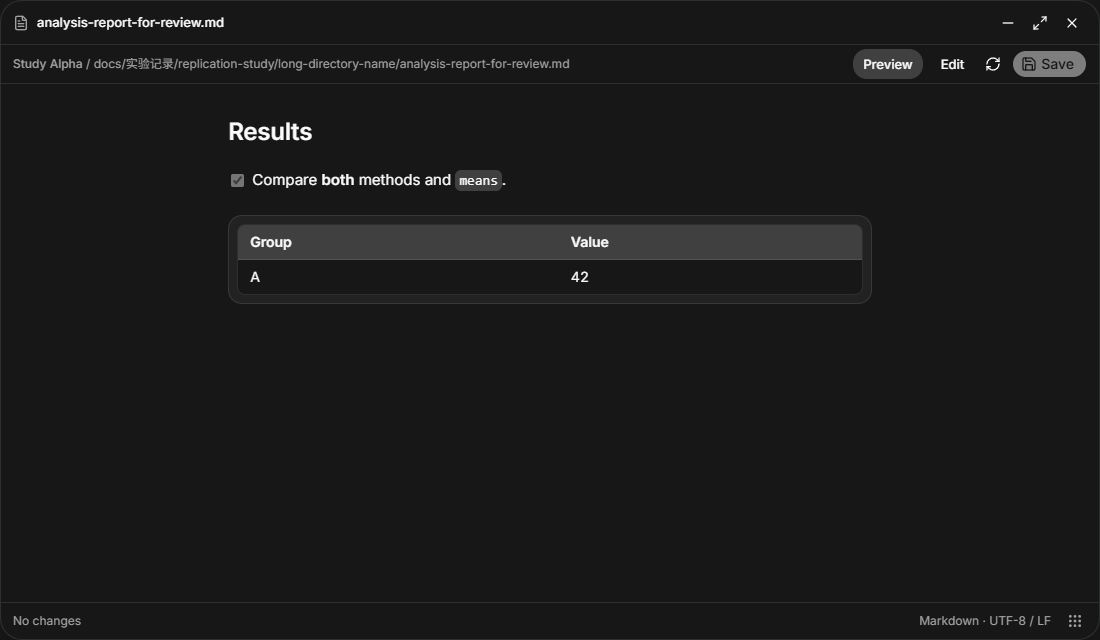
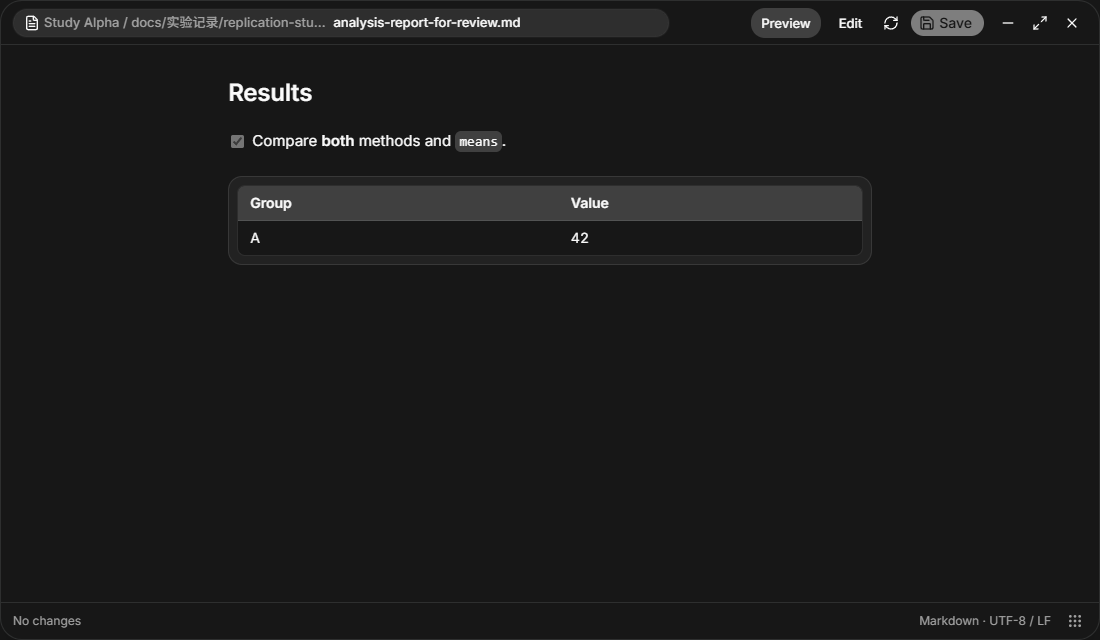
Align dashboard headers and streamline the file preview toolbar

diff --git a/components/document-window.tsx b/components/document-window.tsx
@@ -10,6 +10,8 @@ import {
 } from "react"
 import {
   FileTextIcon,
+  EyeIcon,
+  PencilIcon,
   Maximize2Icon,
   Minimize2Icon,
   MinusIcon,
@@ -32,6 +34,12 @@ import {
   AlertDialogDescription,
   AlertDialogFooter,
 } from "@/components/ui/alert-dialog"
+import {
+  Popover,
+  PopoverTrigger,
+  PopoverContent,
+  PopoverTitle,
+} from "@/components/ui/popover"
 import { Spinner } from "@/components/ui/spinner"
 import { ToggleGroup, ToggleGroupItem } from "@/components/ui/toggle-group"
 import { DocumentEditor } from "@/components/document-editor"
@@ -154,6 +162,9 @@ export function DocumentWindow({ session }: { session: DocumentSessionStore }) {
   const small = viewport.width <= 640 || viewport.height <= 400
   const bounds = maximized || small ? { x: 0, y: 0, ...viewport } : rect
   const name = doc.relativePath.split("/").at(-1)!
+  const parentPath = doc.relativePath.slice(0, -name.length)
+  const identity = `${doc.taskName} / ${doc.relativePath}`
+  const compact = bounds.width < 560
   const language = workspaceFileLanguage(doc.relativePath)
   const policy = workspaceOpenPolicy(doc.relativePath)
   // Markdown keeps a preview of its own: rendering it in place loses the
@@ -279,7 +290,10 @@ export function DocumentWindow({ session }: { session: DocumentSessionStore }) {
           aria-label="File window controls"
           tabIndex={0}
           aria-describedby="document-move-help"
-          className="flex h-11 shrink-0 touch-none items-center gap-2 border-b px-3 outline-none focus-visible:ring-2 focus-visible:ring-ring focus-visible:ring-inset"
+          className={cn(
+            "flex h-11 shrink-0 touch-none items-center border-b outline-none focus-visible:ring-2 focus-visible:ring-ring focus-visible:ring-inset",
+            compact ? "gap-1 px-1.5" : "gap-2 px-3"
+          )}
           onPointerDown={(event) => beginPointer(event, false)}
           {...pointerHandlers}
           onKeyDown={(event) => {
@@ -313,17 +327,34 @@ export function DocumentWindow({ session }: { session: DocumentSessionStore }) {
             )
           }}
         >
-          <FileTextIcon
-            className="size-4 shrink-0 text-muted-foreground"
-            aria-hidden
-          />
-          <span
-            id="document-title"
-            className="pointer-events-none flex min-w-0 flex-1 items-center gap-1 text-[13px] leading-[1.5] font-medium select-none"
-          >
-            <span className="pointer-events-auto truncate select-text" title={name}>
-              {name}
-            </span>
+          <div className="pointer-events-none flex min-w-0 flex-1 items-center gap-1">
+            <Popover>
+              <PopoverTrigger
+                render={<Button variant="ghost" size="compact" />}
+                className="pointer-events-auto max-w-full min-w-0 shrink justify-start"
+                aria-label={identity}
+                id="document-title"
+              >
+                <FileTextIcon aria-hidden />
+                {!compact && (
+                  <span className="max-w-[45%] truncate text-muted-foreground">
+                    {doc.taskName} / {parentPath}
+                  </span>
+                )}
+                <span className="min-w-0 truncate">{name}</span>
+              </PopoverTrigger>
+              <PopoverContent
+                align="start"
+                className="max-w-[calc(100vw-1rem)]"
+              >
+                <PopoverTitle className="wrap-anywhere">
+                  {doc.taskName}
+                </PopoverTitle>
+                <p className="wrap-anywhere text-muted-foreground">
+                  {doc.relativePath}
+                </p>
+              </PopoverContent>
+            </Popover>
             {dirty && (
               <span
                 className="shrink-0 text-muted-foreground"
@@ -332,44 +363,12 @@ export function DocumentWindow({ session }: { session: DocumentSessionStore }) {
                 •
               </span>
             )}
-          </span>
+          </div>
           <span id="document-move-help" className="sr-only">
             Drag the blank title bar to move. With this toolbar focused, use
             arrow keys to move or Shift and arrow keys to resize.
           </span>
-          <div className="ml-auto flex shrink-0 gap-0.5">
-            <WindowButton
-              label="Minimize file"
-              onClick={() => {
-                setMinimized(true)
-                requestAnimationFrame(() => restoreRef.current?.focus())
-              }}
-            >
-              <MinusIcon />
-            </WindowButton>
-            <WindowButton
-              label={maximized ? "Restore window size" : "Maximize file"}
-              disabled={small}
-              onClick={() => setMaximized((value) => !value)}
-            >
-              {maximized ? <Minimize2Icon /> : <Maximize2Icon />}
-            </WindowButton>
-            <WindowButton
-              label="Close file"
-              disabled={doc.saving || !!state.deletion}
-              onClick={session.requestClose}
-            >
-              <XIcon />
-            </WindowButton>
-          </div>
-        </div>
-        <div className="flex shrink-0 flex-wrap items-center gap-x-3 gap-y-1 border-b px-3 py-1">
-          <p className="max-h-12 min-w-0 flex-[1_0_min(100%,12rem)] overflow-y-auto text-xs leading-4 wrap-anywhere text-muted-foreground">
-            <span className="font-medium">{doc.taskName}</span>
-            <span aria-hidden> / </span>
-            {doc.relativePath}
-          </p>
-          <div className="ml-auto flex shrink-0 items-center gap-1">
+          <div className="flex shrink-0 items-center gap-1">
             {markdown && (
               <ToggleGroup
                 size="sm"
@@ -380,8 +379,22 @@ export function DocumentWindow({ session }: { session: DocumentSessionStore }) {
                 }}
                 aria-label="Document view"
               >
-                <ToggleGroupItem value="preview">Preview</ToggleGroupItem>
-                <ToggleGroupItem value="source">Edit</ToggleGroupItem>
+                <ToggleGroupItem
+                  value="preview"
+                  aria-label="Preview"
+                  title="Preview"
+                  className={compact ? "size-7.5 rounded-full p-0" : undefined}
+                >
+                  {compact ? <EyeIcon /> : "Preview"}
+                </ToggleGroupItem>
+                <ToggleGroupItem
+                  value="source"
+                  aria-label="Edit"
+                  title="Edit"
+                  className={compact ? "size-7.5 rounded-full p-0" : undefined}
+                >
+                  {compact ? <PencilIcon /> : "Edit"}
+                </ToggleGroupItem>
               </ToggleGroup>
             )}
             <WindowButton
@@ -392,7 +405,9 @@ export function DocumentWindow({ session }: { session: DocumentSessionStore }) {
               <RefreshCwIcon />
             </WindowButton>
             <Button
-              size="sm"
+              size={compact ? "icon-sm" : "sm"}
+              aria-label="Save"
+              title="Save"
               disabled={!canSave || locked}
               onClick={() => void session.save()}
             >
@@ -401,8 +416,34 @@ export function DocumentWindow({ session }: { session: DocumentSessionStore }) {
               ) : (
                 <SaveIcon data-icon="inline-start" />
               )}
-              Save
+              {!compact && "Save"}
             </Button>
+          </div>
+          <div className="flex shrink-0 gap-0.5">
+            <WindowButton
+              label="Minimize file"
+              onClick={() => {
+                setMinimized(true)
+                requestAnimationFrame(() => restoreRef.current?.focus())
+              }}
+            >
+              <MinusIcon />
+            </WindowButton>
+            {!small && (
+              <WindowButton
+                label={maximized ? "Restore window size" : "Maximize file"}
+                onClick={() => setMaximized((value) => !value)}
+              >
+                {maximized ? <Minimize2Icon /> : <Maximize2Icon />}
+              </WindowButton>
+            )}
+            <WindowButton
+              label="Close file"
+              disabled={doc.saving || !!state.deletion}
+              onClick={session.requestClose}
+            >
+              <XIcon />
+            </WindowButton>
           </div>
         </div>
         <div className="relative min-h-0 flex-1 overflow-hidden">

diff --git a/components/research-workspace.tsx b/components/research-workspace.tsx
@@ -493,7 +493,10 @@ function ResearchWorkspaceInner({
 
   return (
     <div ref={container} className="flex h-full min-w-0 flex-col">
-      <div className="flex h-14 shrink-0 items-center justify-between gap-3 border-b border-border px-3">
+      <header
+        aria-label="Workspace"
+        className="dashboard-header justify-between gap-2 px-3"
+      >
         <div className="flex min-w-0 items-center gap-2">
           {onBack && (
             <Tooltip>
@@ -513,19 +516,9 @@ function ResearchWorkspaceInner({
               <TooltipContent>Back to chat</TooltipContent>
             </Tooltip>
           )}
-          <div className="flex min-w-0 flex-col gap-0">
-            <span className="text-sm leading-5 font-medium text-foreground">
-              Workspace
-            </span>
-            {!statusLoading && isReady && (
-              <p
-                className="truncate text-[11px] leading-tight text-muted-foreground"
-                title={chatId}
-              >
-                {chatId}
-              </p>
-            )}
-          </div>
+          <span className="truncate text-sm leading-5 font-medium text-foreground">
+            Workspace
+          </span>
         </div>
         <div className="flex shrink-0 items-center gap-0.5">
           <Tooltip>
@@ -629,7 +622,7 @@ function ResearchWorkspaceInner({
             </Tooltip>
           ))}
         </div>
-      </div>
+      </header>
       <div className="flex min-h-0 flex-1 flex-col overflow-y-auto p-3">
         {statusLoading && (
           <div className="flex items-center gap-2 text-xs text-muted-foreground">

diff --git a/components/chat-header.tsx b/components/chat-header.tsx
@@ -36,7 +36,7 @@ export function ChatHeader({
 
   return (
     <>
-      <header className="flex h-14 shrink-0 items-center justify-between gap-2 border-b border-border bg-background px-3 text-foreground sm:px-4">
+      <header className="dashboard-header justify-between gap-2 bg-background px-3 text-foreground sm:px-4">
         <div className="flex min-w-0 flex-1 items-center gap-1">
           <SidebarTrigger className="shrink-0 md:hidden" />
           {chat.kind === "group" ? (

diff --git a/app/globals.css b/app/globals.css
@@ -197,6 +197,10 @@
   }
 }
 
+@utility dashboard-header {
+  @apply flex h-11 shrink-0 items-center border-b border-border;
+}
+
 /* Typography roles are opt-in for subsequent component-family passes. They
    reuse this theme's scale and do not override existing page/editor selectors.
    Evidence and adoption status: docs/visual-foundation.md. */

diff --git a/components/app-sidebar.tsx b/components/app-sidebar.tsx
@@ -58,7 +58,7 @@ function BrandHeader() {
   return (
     <div
       className={cn(
-        "flex h-11 shrink-0 items-center px-2.5",
+        "dashboard-header px-2.5",
         collapsed ? "justify-center" : "justify-between"
       )}
     >
